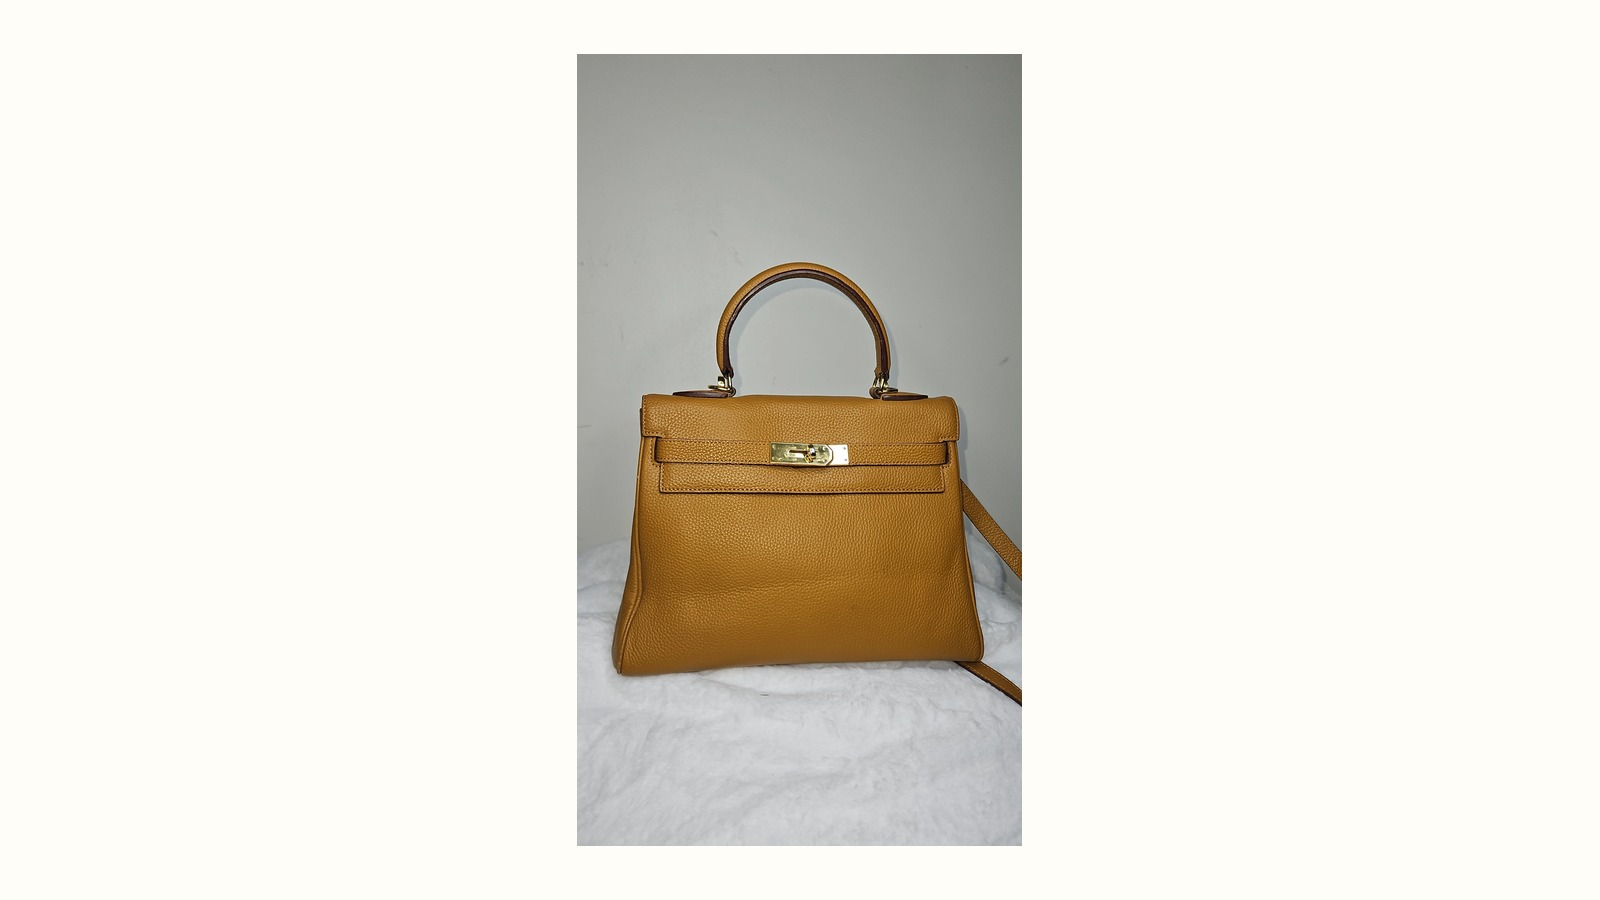
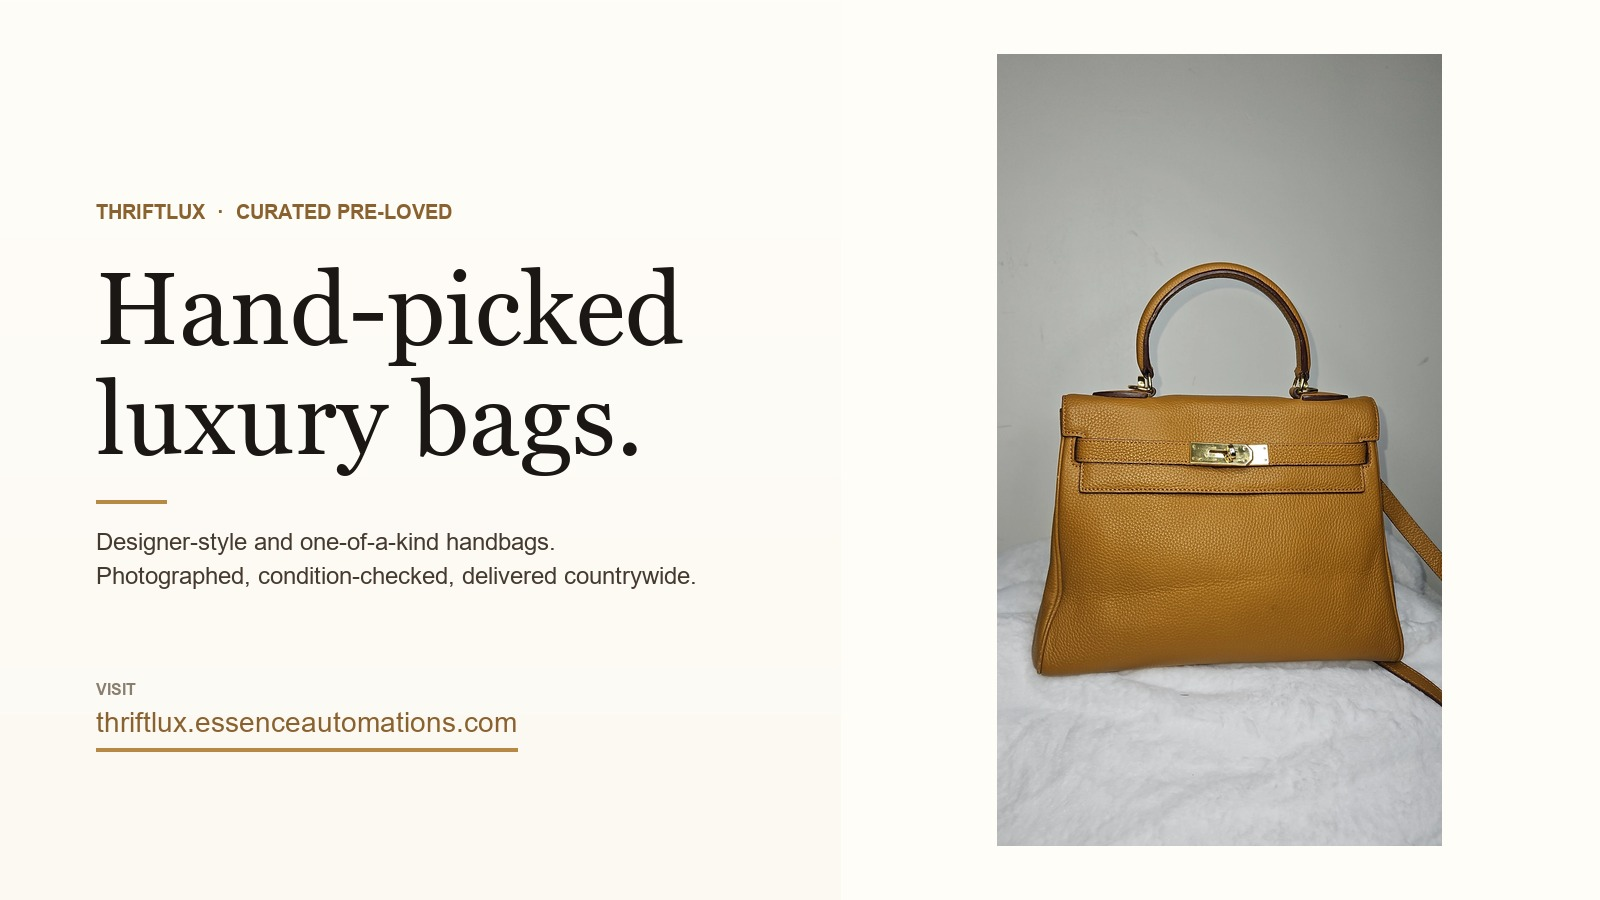
ThriftLux: switch all links to essenceautomations subdomain + editorial bag tile
Links: replaced all 9 https://thriftlux.ke references across hub, makeup,
and styling with https://thriftlux.essenceautomations.com.
Hub Bags tile button now reads 'Visit ThriftLux' (no domain) so it
ages well if the URL changes again.

Bag tile image: rebuilt as an editorial composition - left half is
brand text (eyebrow 'THRIFTLUX · CURATED PRE-LOVED', serif title
'Hand-picked luxury bags.', tagline, and the URL stamped at the
bottom in brass), right half is the original bag photo. Fills the
landscape tile with intent instead of empty cream margins.

diff --git a/index.html b/index.html
@@ -45,7 +45,7 @@
     <div class="nav-links" id="navLinks">
       <a href="makeup.html">Makeup</a>
       <a href="styling.html">Styling</a>
-      <a href="https://thriftlux.ke" target="_blank" rel="noopener">Bags <span class="nav-ext">&#x2197;</span></a>
+      <a href="https://thriftlux.essenceautomations.com" target="_blank" rel="noopener">Bags <span class="nav-ext">&#x2197;</span></a>
       <a href="https://wa.me/254705044940" class="nav-cta" target="_blank" rel="noopener">WhatsApp</a>
     </div>
   </div>
@@ -82,13 +82,13 @@
         </div>
       </a>
 
-      <a class="tile tile-bags" href="https://thriftlux.ke" target="_blank" rel="noopener">
+      <a class="tile tile-bags" href="https://thriftlux.essenceautomations.com" target="_blank" rel="noopener">
         <div class="tile-art" data-image="bags-cover"></div>
         <div class="tile-body">
           <p class="tile-eyebrow">Service three</p>
           <h2 class="tile-title">ThriftLux Bags</h2>
           <p class="tile-sub">Curated pre-loved<br>designer handbags.</p>
-          <span class="tile-cta">Visit thriftlux.ke <span class="ext">&#x2197;</span></span>
+          <span class="tile-cta">Visit ThriftLux <span class="ext">&#x2197;</span></span>
         </div>
       </a>
     </div>
@@ -106,7 +106,7 @@
         <span class="kalasha-title">Nominated for Best Costume Designer</span>
       </div>
 
-      <p>When she&rsquo;s not on a shoot, she runs <a href="https://thriftlux.ke" target="_blank" rel="noopener">ThriftLux</a>, a hand-picked pre-loved designer handbag shop delivering across Kenya.</p>
+      <p>When she&rsquo;s not on a shoot, she runs <a href="https://thriftlux.essenceautomations.com" target="_blank" rel="noopener">ThriftLux</a>, a hand-picked pre-loved designer handbag shop delivering across Kenya.</p>
       <p>Want to book her? <a href="https://wa.me/254705044940" target="_blank" rel="noopener">Message on WhatsApp</a>.</p>
     </div>
   </div>
@@ -202,7 +202,7 @@
     <div class="footer-links">
       <a href="https://wa.me/254705044940" target="_blank" rel="noopener">WhatsApp &middot; 0705 044 940</a>
       <a href="https://www.instagram.com/nessamakeupart/" target="_blank" rel="noopener">Instagram &middot; @nessamakeupart</a>
-      <a href="https://thriftlux.ke" target="_blank" rel="noopener">ThriftLux Bags &nbsp;&#x2197;</a>
+      <a href="https://thriftlux.essenceautomations.com" target="_blank" rel="noopener">ThriftLux Bags &nbsp;&#x2197;</a>
     </div>
     <p class="footer-fine">&copy; <span id="year"></span> Nessa &middot; Nairobi, Kenya &middot; Designed by <a class="footer-credit" href="https://essenceautomations.com" target="_blank" rel="noopener">Essence Automations</a></p>
   </div>

diff --git a/makeup.html b/makeup.html
@@ -42,7 +42,7 @@
     <div class="nav-links" id="navLinks">
       <a href="makeup.html" class="active">Makeup</a>
       <a href="styling.html">Styling</a>
-      <a href="https://thriftlux.ke" target="_blank" rel="noopener">Bags <span class="nav-ext">&#x2197;</span></a>
+      <a href="https://thriftlux.essenceautomations.com" target="_blank" rel="noopener">Bags <span class="nav-ext">&#x2197;</span></a>
       <a href="https://wa.me/254705044940" class="nav-cta" target="_blank" rel="noopener">WhatsApp</a>
     </div>
   </div>
@@ -73,7 +73,7 @@
     <div class="footer-links">
       <a href="https://wa.me/254705044940" target="_blank" rel="noopener">WhatsApp &middot; 0705 044 940</a>
       <a href="https://www.instagram.com/nessamakeupart/" target="_blank" rel="noopener">Instagram &middot; @nessamakeupart</a>
-      <a href="https://thriftlux.ke" target="_blank" rel="noopener">ThriftLux Bags &nbsp;&#x2197;</a>
+      <a href="https://thriftlux.essenceautomations.com" target="_blank" rel="noopener">ThriftLux Bags &nbsp;&#x2197;</a>
     </div>
     <p class="footer-fine">&copy; <span id="year"></span> Nessa &middot; Nairobi, Kenya &middot; Designed by <a class="footer-credit" href="https://essenceautomations.com" target="_blank" rel="noopener">Essence Automations</a></p>
   </div>

diff --git a/styling.html b/styling.html
@@ -42,7 +42,7 @@
     <div class="nav-links" id="navLinks">
       <a href="makeup.html">Makeup</a>
       <a href="styling.html" class="active">Styling</a>
-      <a href="https://thriftlux.ke" target="_blank" rel="noopener">Bags <span class="nav-ext">&#x2197;</span></a>
+      <a href="https://thriftlux.essenceautomations.com" target="_blank" rel="noopener">Bags <span class="nav-ext">&#x2197;</span></a>
       <a href="https://wa.me/254705044940" class="nav-cta" target="_blank" rel="noopener">WhatsApp</a>
     </div>
   </div>
@@ -73,7 +73,7 @@
     <div class="footer-links">
       <a href="https://wa.me/254705044940" target="_blank" rel="noopener">WhatsApp &middot; 0705 044 940</a>
       <a href="https://www.instagram.com/nessamakeupart/" target="_blank" rel="noopener">Instagram &middot; @nessamakeupart</a>
-      <a href="https://thriftlux.ke" target="_blank" rel="noopener">ThriftLux Bags &nbsp;&#x2197;</a>
+      <a href="https://thriftlux.essenceautomations.com" target="_blank" rel="noopener">ThriftLux Bags &nbsp;&#x2197;</a>
     </div>
     <p class="footer-fine">&copy; <span id="year"></span> Nessa &middot; Nairobi, Kenya &middot; Designed by <a class="footer-credit" href="https://essenceautomations.com" target="_blank" rel="noopener">Essence Automations</a></p>
   </div>
